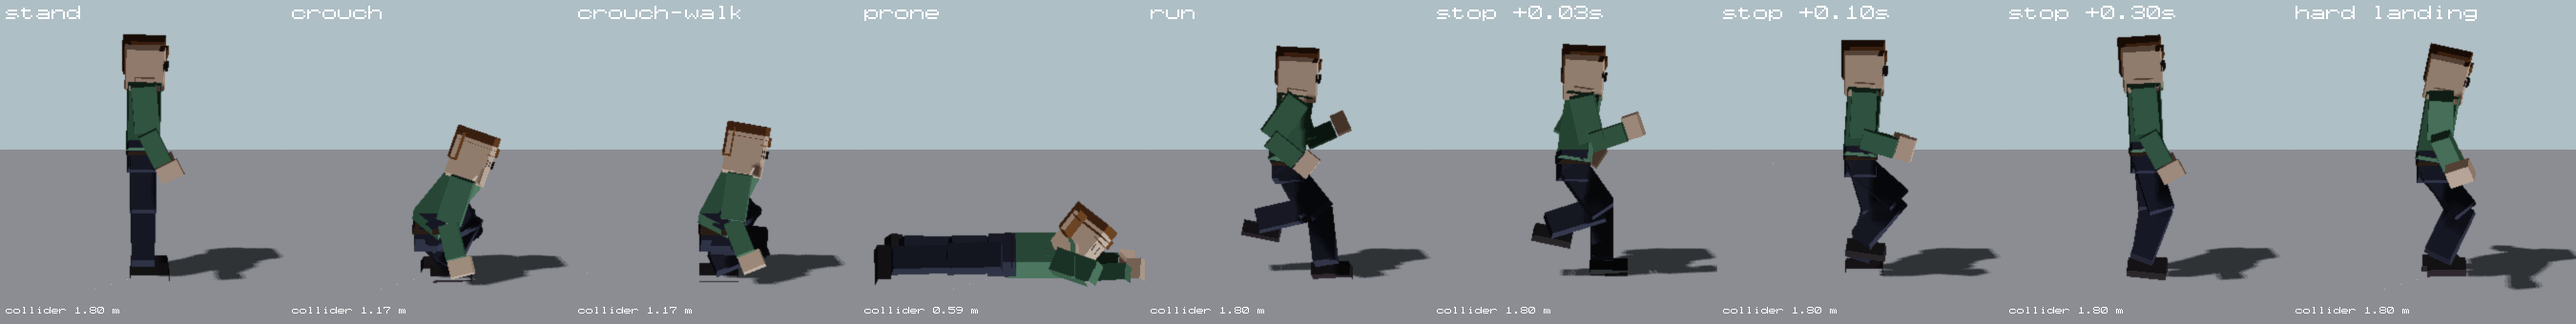
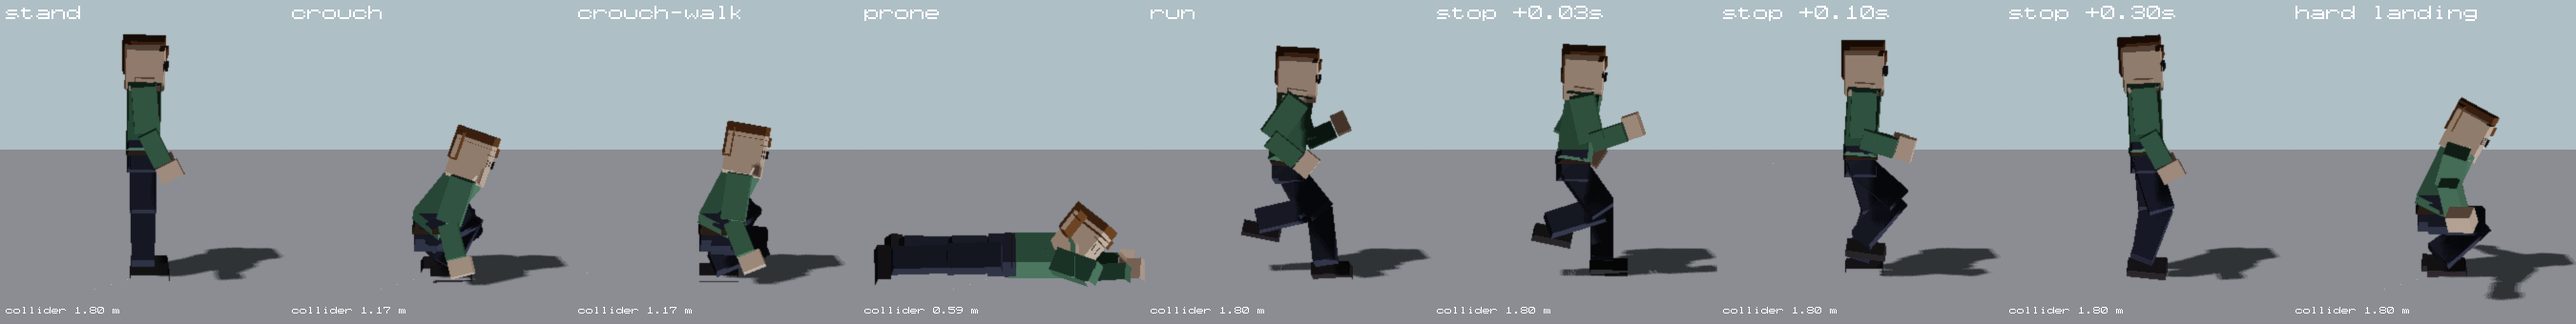
Player feel 4: standing landing bends the knees with the feet on the floor, test asserts it, poses picture updated
Claude-Session: https://claude.ai/code/session_0124gftgxmU3mkMfJzNgvoMC

Changed region(s): [[0.9333, 0.1471, 1.0, 0.9412]]

diff --git a/tests/test_player_feel2.cpp b/tests/test_player_feel2.cpp
@@ -181,7 +181,7 @@ int main() {
                 r.Frame({});
                 if (r.p->GetComponent<ThirdPersonController>()->IsGrounded()) {
                     if (after == 0) std::printf("[player_feel2]   touchdown: impact %.1f m/s, landImpact %.2f, anim %d\n", r.p->GetComponent<ThirdPersonController>()->debugState().lastLandSpeed, r.ch->LandImpact(), r.ch->anim);
-                    if (i == 1 && after < 24) { float lo = 1e9f; for (const Vec3& v : r.mr->mesh.vertices) lo = std::min(lo, r.p->transform->TransformPoint(v).y); std::printf("[player_feel2]   f%02d top %.3f lowest %.3f landImpact %.2f\n", after, r.Top(), lo - r.Pos().y, r.ch->LandImpact()); }
+                    if (i == 1 && after < 24) { float lo = 1e9f; for (const Vec3& v : r.mr->mesh.vertices) lo = std::min(lo, r.p->transform->TransformPoint(v).y); std::printf("[player_feel2]   f%02d top %.3f lowest %.3f landImpact %.2f posY %.3f stanceOffY %.3f animatorDriven %d height %.2f rigScale-ish\n", after, r.Top(), lo - r.Pos().y, r.ch->LandImpact(), r.Pos().y, r.ch->StanceOffset().y, (int)r.ch->AnimatorDriven(), r.ch->height); }
                     ++after; stand = std::max(stand, r.Top()); lowest = std::min(lowest, r.Top());
                     for (const Vec3& v : r.mr->mesh.vertices) lowestY = std::min(lowestY, r.p->transform->TransformPoint(v).y);
                 }
@@ -189,7 +189,10 @@ int main() {
             dip[i] = stand - lowest; lowFoot[i] = lowestY - r.Pos().y;
             std::printf("[player_feel2] standing landing from %.0f m: body drops %.3f m, lowest vertex %.3f m below the floor line\n", heights[i], dip[i], -lowFoot[i]);
         }
-        // The standing landing (idle) is hips-only and sinks the feet at depth: open gap, printed above, not asserted.
+        // The standing landing (idle, animator-driven body): knees bend and the body lowers by the same amount, feet stay.
+        CHECK(dip[1] > 0.30f);                 // player_feel2_idle_landing_pose: a hard standing landing is a clear crouch
+        CHECK(dip[1] > dip[0] * 1.5f);         // ...deeper than a step down
+        CHECK(lowFoot[0] > -0.03f && lowFoot[1] > -0.03f);   // feet stay at the floor line (they sank 16 cm when the hips dropped twice)
     }
 
     // ---- Third-person camera through a walk that changes speed: same path at 30 / 60 / 144 / 240 fps. ----

diff --git a/engine/src/Components/Character.cpp b/engine/src/Components/Character.cpp
@@ -683,7 +683,7 @@ bool Character::AnimatorSample(std::vector<Vec3>& pose, Vec3& root) const {
     pose.resize(B_COUNT, Vec3{0, 0, 0});
     // Landing on the move: the stride gives at the knees (a standing landing
     // plays the Land state instead).
-    if (m_landK > 0.0f && (anim == 2 || anim == 3)) root.y += HumanoidMotion::AbsorbLanding(pose, m_landK);
+    if (m_landK > 0.0f && (anim == 1 || anim == 2 || anim == 3)) root.y += HumanoidMotion::AbsorbLanding(pose, m_landK);
     return true;
 }
 

diff --git a/docs/UNFINISHED.md b/docs/UNFINISHED.md
@@ -20,7 +20,7 @@ The feature map currently has **124** rows that are Partial or Planned.
 |---|---|---|
 | Natural walk and run (`docs/walk_vs_run.md`, `docs/try_it.md` row 7r) | Done in code and tests; Linux only | Not run on Windows or a GPU renderer, no real Mixamo model used (test rigs only), and whether 2 m/s walk and 5.5 m/s run feel right in a real game is the owner's call (one number in `NaturalGait.hpp`). Older projects keep their saved speeds until the Inspector's **Use natural walk and run speeds** is pressed: an automatic upgrade would need an `okayscene` format bump and an opt-in in the upgrade window (written down in the doc, not built). The 2.5D, top-down, click-to-move, NPC and `CharacterController3D` defaults were not changed (their W now shows the jog it really is). The walk's hips bob about 8 cm (a person's 3 to 5): that needs stance-knee flex and pelvic tilt. |
 | One inflate (`engine/include/okay/Core/Inflate.hpp`) for PNG, .blend, .x, ZGL, 3MF/AMF, FBX arrays and the own HTTP client | Done in code (the three older copies are deleted from the tree; ImageDecode and FbxReader keep thin wrappers, see `docs/try_it.md` row 15) | Checked on Linux only: `tests/test_inflate_differential.cpp` against a slow reference written from the RFCs (about 67,000 inputs and 15,500 gzip inputs per run, ASan and UBSan clean) and, before the old copies were removed, against those copies (257,014 inputs, no disagreement; commit `0ea3b26a`); `png_hint`; not run on Windows or macOS, not run on real PNG, `.blend`, `.x`, FBX or gzip-download files from outside our own tests; `model_readers` and `own_http_net` not run for this change. Two behaviour notes: PNG decoding stops as soon as all expected pixel bytes are decoded (a damaged tail after them is no longer examined), and the first output allocation is now limited to what the input could produce (1032 times its size), so a PNG header claiming a huge size with a few bytes of data no longer zero-fills that much first. The shared `FixedCodes` table is a function-local static built on first use: C++11-safe, but not proven under the MinGW win32 thread model (no `<mutex>` is used) |
-| Player animation link, round 2 (branch `claude/player-feel-2`, `tests/test_player_feel2.cpp`) | Partly built | Done: landing recovery depth follows the impact (the controller reports every touchdown to the Character: a 0.6 m drop dips the body 0.076 m, 2.5 m 0.097 m, 9 m 0.165 m; the old path dips the same every time); turning in place measured (planted foot median 0.015 m/s); crouch / stand changes are smooth (largest change 2 cm per frame); third-person camera follows the player the same way at 30, 60, 144 and 240 fps (offset to the player differs by at most 7 cm from the 240 fps run, never moves against the heading); gamepad stick dead zone, outer zone, curve and round/axial shape editable in the Inspector (session only, not saved, not shipped). **Round 3 (same branch):** crouch and crouch-walk poses now lower the visible body to the collider (1.19 m and 1.22 m against 1.17 m; was 1.65 m), prone matches (0.57 against 0.59 m) and stand / crouch / prone / stand changes never move the body top more than 7 cm per frame; a landing on the move is a clear crouch that scales with the impact (0.08 / 0.22 / 0.41 m for 0.6 / 2.5 / 9 m drops, feet stay within 2 cm of the floor line); headless pictures in `docs/images/player_poses/poses.png` (made by `tests/render_poses.cpp`, flat software render). **Open gaps, measured and not fixed:** stopping from a run: the planted feet still slide 0.63 m for 0.35 m of body travel (target was body travel + 0.1 m; the test prints "NOT MET" and only guards against it getting worse): spread feet can only close by sliding unless the character takes a stop step, which is not built; a standing (idle) landing is hips-only (0.08 to 0.1 m, feet 1 cm under the floor line): giving it bent knees through the animator path made the feet sink 16 cm, so it was left as it was. Never run on Windows or seen on a screen |
+| Player animation link, round 2 (branch `claude/player-feel-2`, `tests/test_player_feel2.cpp`) | Partly built | Done: landing recovery depth follows the impact (the controller reports every touchdown to the Character: a 0.6 m drop dips the body 0.076 m, 2.5 m 0.097 m, 9 m 0.165 m; the old path dips the same every time); turning in place measured (planted foot median 0.015 m/s); crouch / stand changes are smooth (largest change 2 cm per frame); third-person camera follows the player the same way at 30, 60, 144 and 240 fps (offset to the player differs by at most 7 cm from the 240 fps run, never moves against the heading); gamepad stick dead zone, outer zone, curve and round/axial shape editable in the Inspector (session only, not saved, not shipped). **Round 3 (same branch):** crouch and crouch-walk poses now lower the visible body to the collider (1.19 m and 1.22 m against 1.17 m; was 1.65 m), prone matches (0.57 against 0.59 m) and stand / crouch / prone / stand changes never move the body top more than 7 cm per frame; a landing on the move is a clear crouch that scales with the impact (0.08 / 0.22 / 0.41 m for 0.6 / 2.5 / 9 m drops, feet stay within 2 cm of the floor line); headless pictures in `docs/images/player_poses/poses.png` (made by `tests/render_poses.cpp`, flat software render). **Open gaps, measured and not fixed:** stopping from a run: the planted feet still slide 0.63 m for 0.35 m of body travel (target was body travel + 0.1 m; the test prints "NOT MET" and only guards against it getting worse): spread feet can only close by sliding unless the character takes a stop step, which is not built; (round 4) the standing (idle) landing now bends the knees too: a hard standing landing lowers the body 0.47 m (a step down 0.23 m) with the feet at the floor line (the animator path now applies the landing give for the idle state as well); the stop slide above is still open and needs a stop step. Never run on Windows or seen on a screen |
 | Player feel upgrade (branch `claude/player-feel`, try it: `docs/try_it.md` 7wa) | Partly built | Done: five presets (Classic, Modern, Arcade, Realistic, Shooter) in the Inspector, saved, F3 line, keys 1-5 in the lab scene; gamepad stick look ramp; per-system frame cost (F3 second page, Game view Stats); a scene type-query cache and NPC target cache (switch `OKAY_OLD_SCENE_QUERIES=1`). Not done: turn / stop / landing / crouch animation blends beyond what the gait already does (foot sliding was only measured: planted foot 4-7% of ground speed), camera jitter test is weak (the walk is at constant speed), per-system rows for audio and render in the editor, gamepad deadzone UI (the Input settings already exist), and the biggest cost: `Physics3D::Step` is 84% of a busy frame (2000 colliders, 100 NPCs) and sits in `Physics3D.cpp`, which was off limits (physics lane). Nothing was run on Windows or on a screen |
 | Player: what the deep audit found and left (branch `claude/player-deep`, `docs/player_audit.md`) | Open | A kinematic wall pushes the player through a static wall and a 50 kg crate on the head presses it 0.3 m into the floor (physics lane: contact solver); a collider's centre offset ignores the transform scale so a scaled player floats or sinks (`Collider3D::WorldCenter`); `Physics3D::Overlap*` and `Sweep` search every object on every call instead of using the cached collider list; a box body balances with its centre 0.29 m past a ledge. Nothing here was run on Windows; the F3 player lines and the Inspector fields were never seen on a screen |
 | Start-up update screen | Built, unverified in the real app | On for new installs and after "Reset to defaults" only (existing configs already hold a saved `update_on_launch`). Checked by unit tests (`startup_update`) and a syntax-only compile of the launcher on Linux. Not run: a real download or restart, Windows, a slow or offline network, the OkayUI backend (the panel is drawn with Dear ImGui after the OkayUI frame; the draw order there is unverified). `docs/updater.md` |
